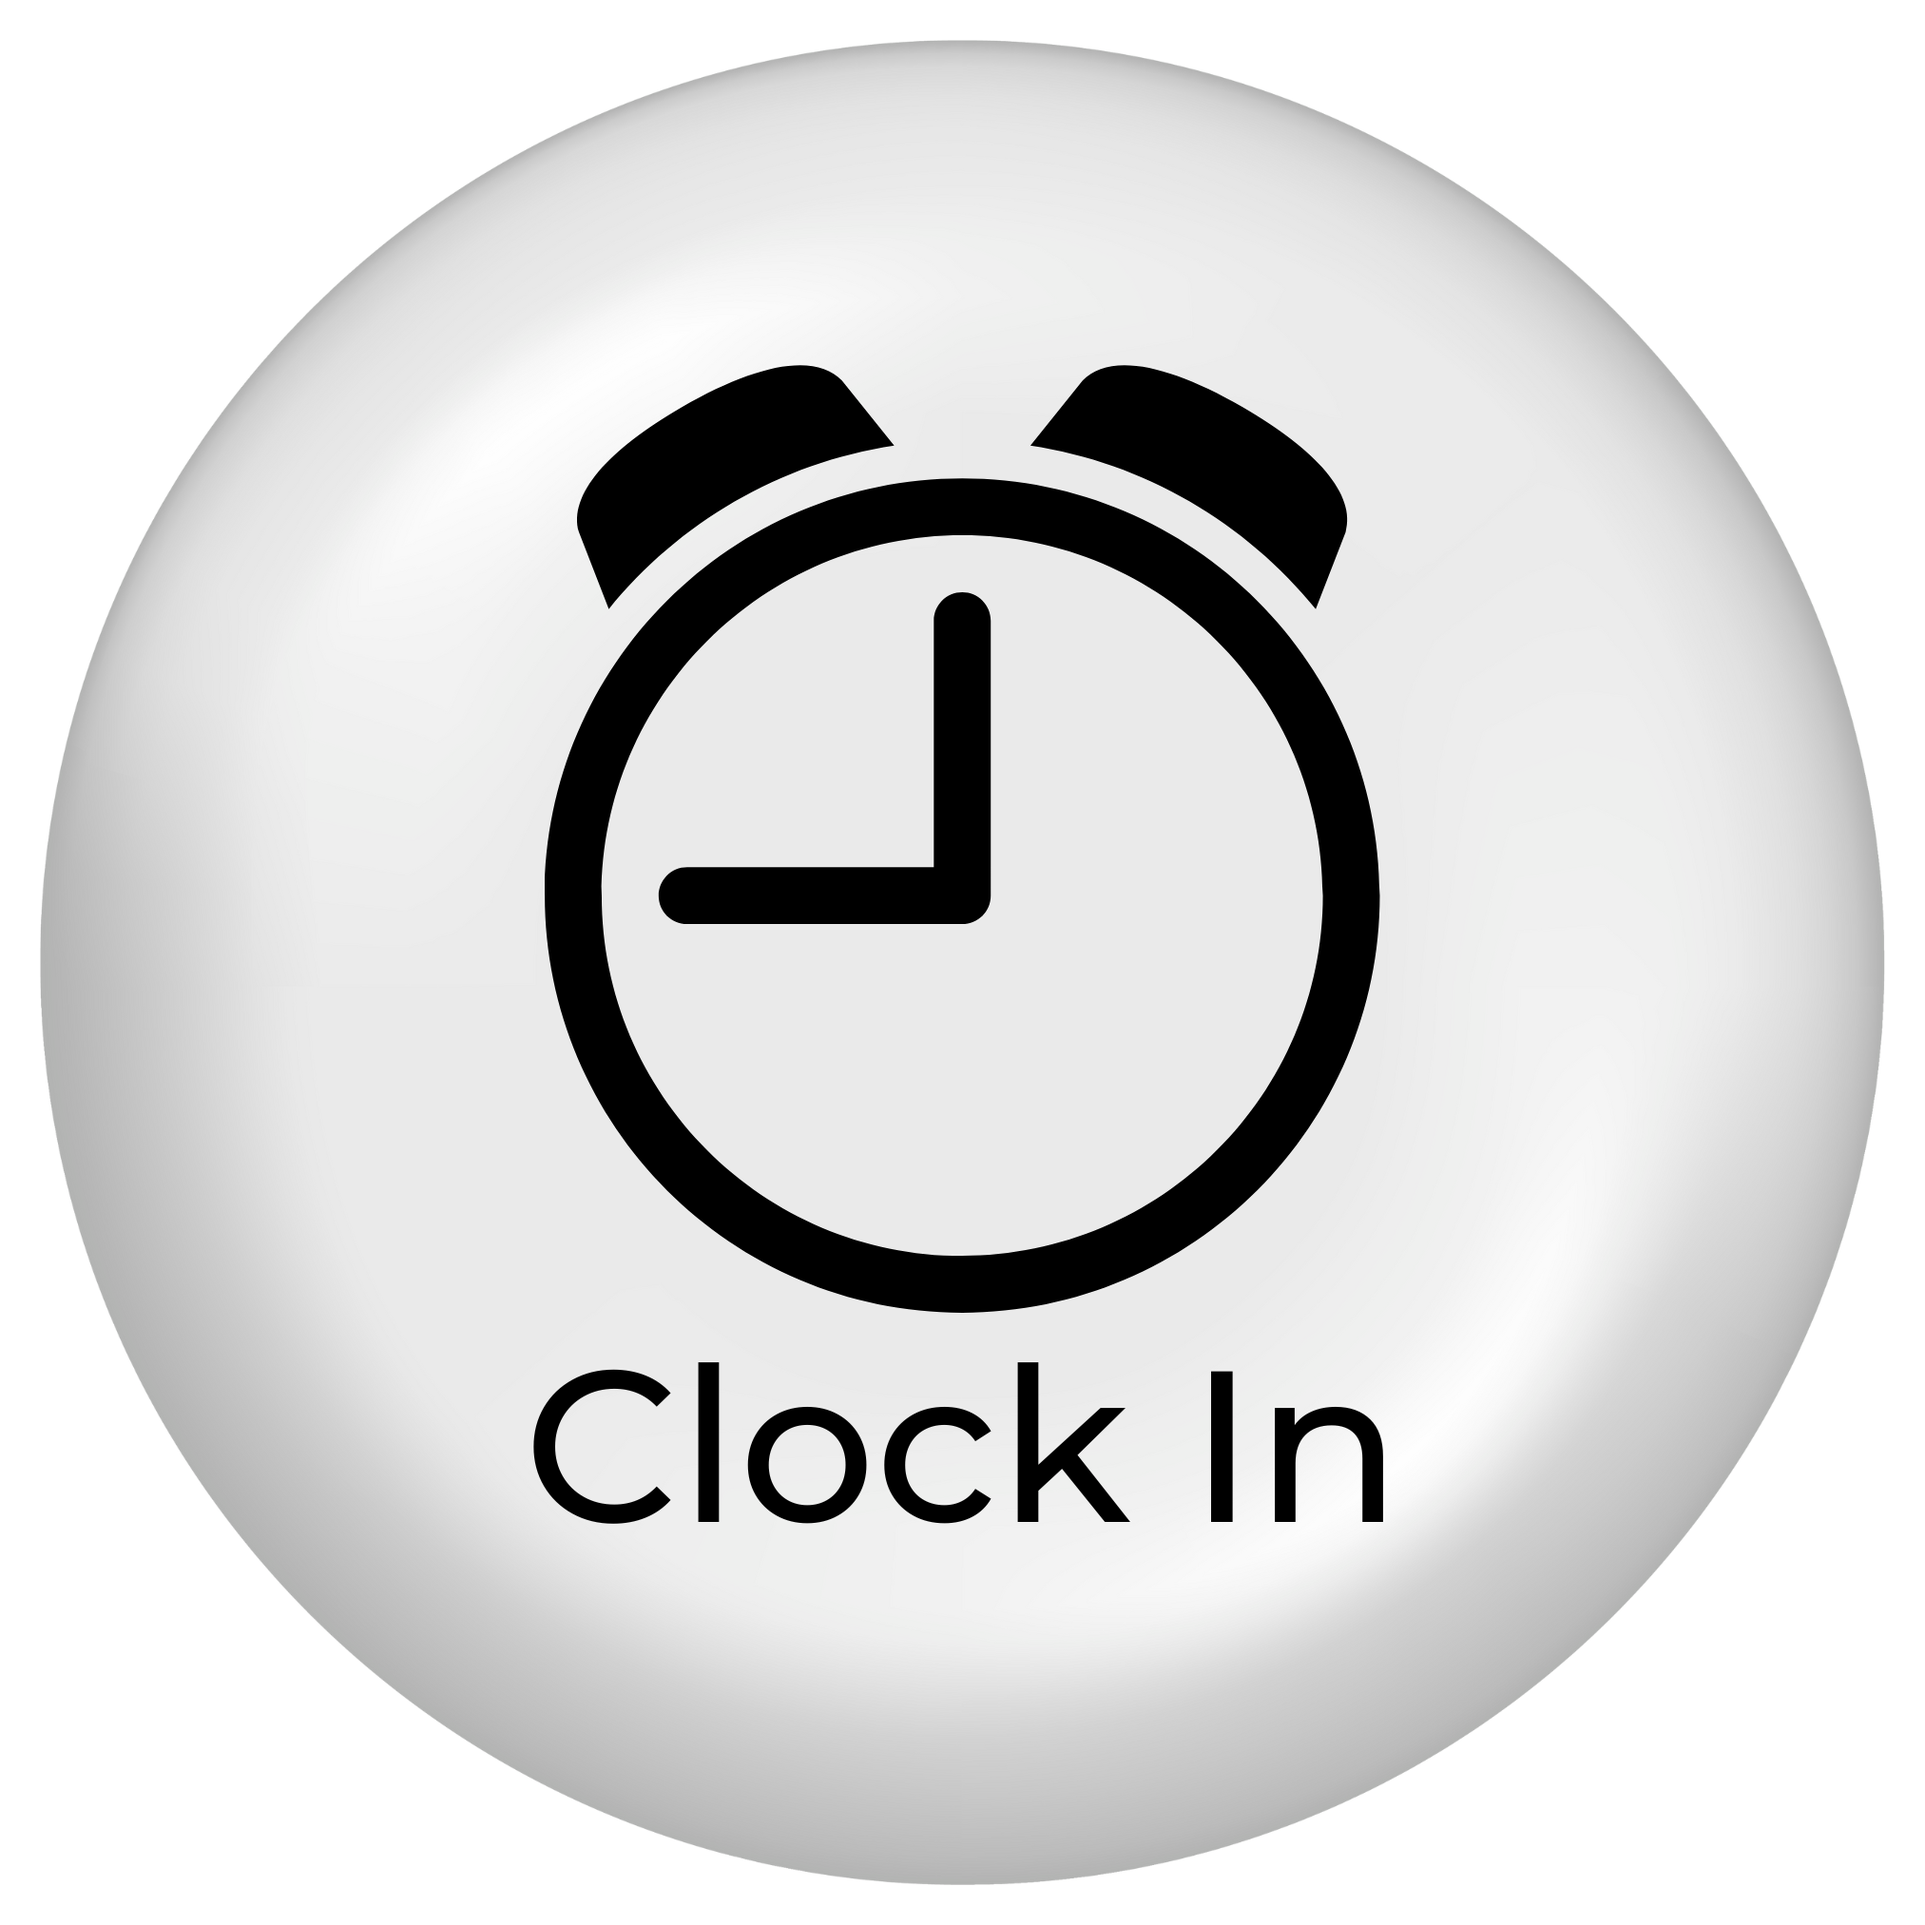
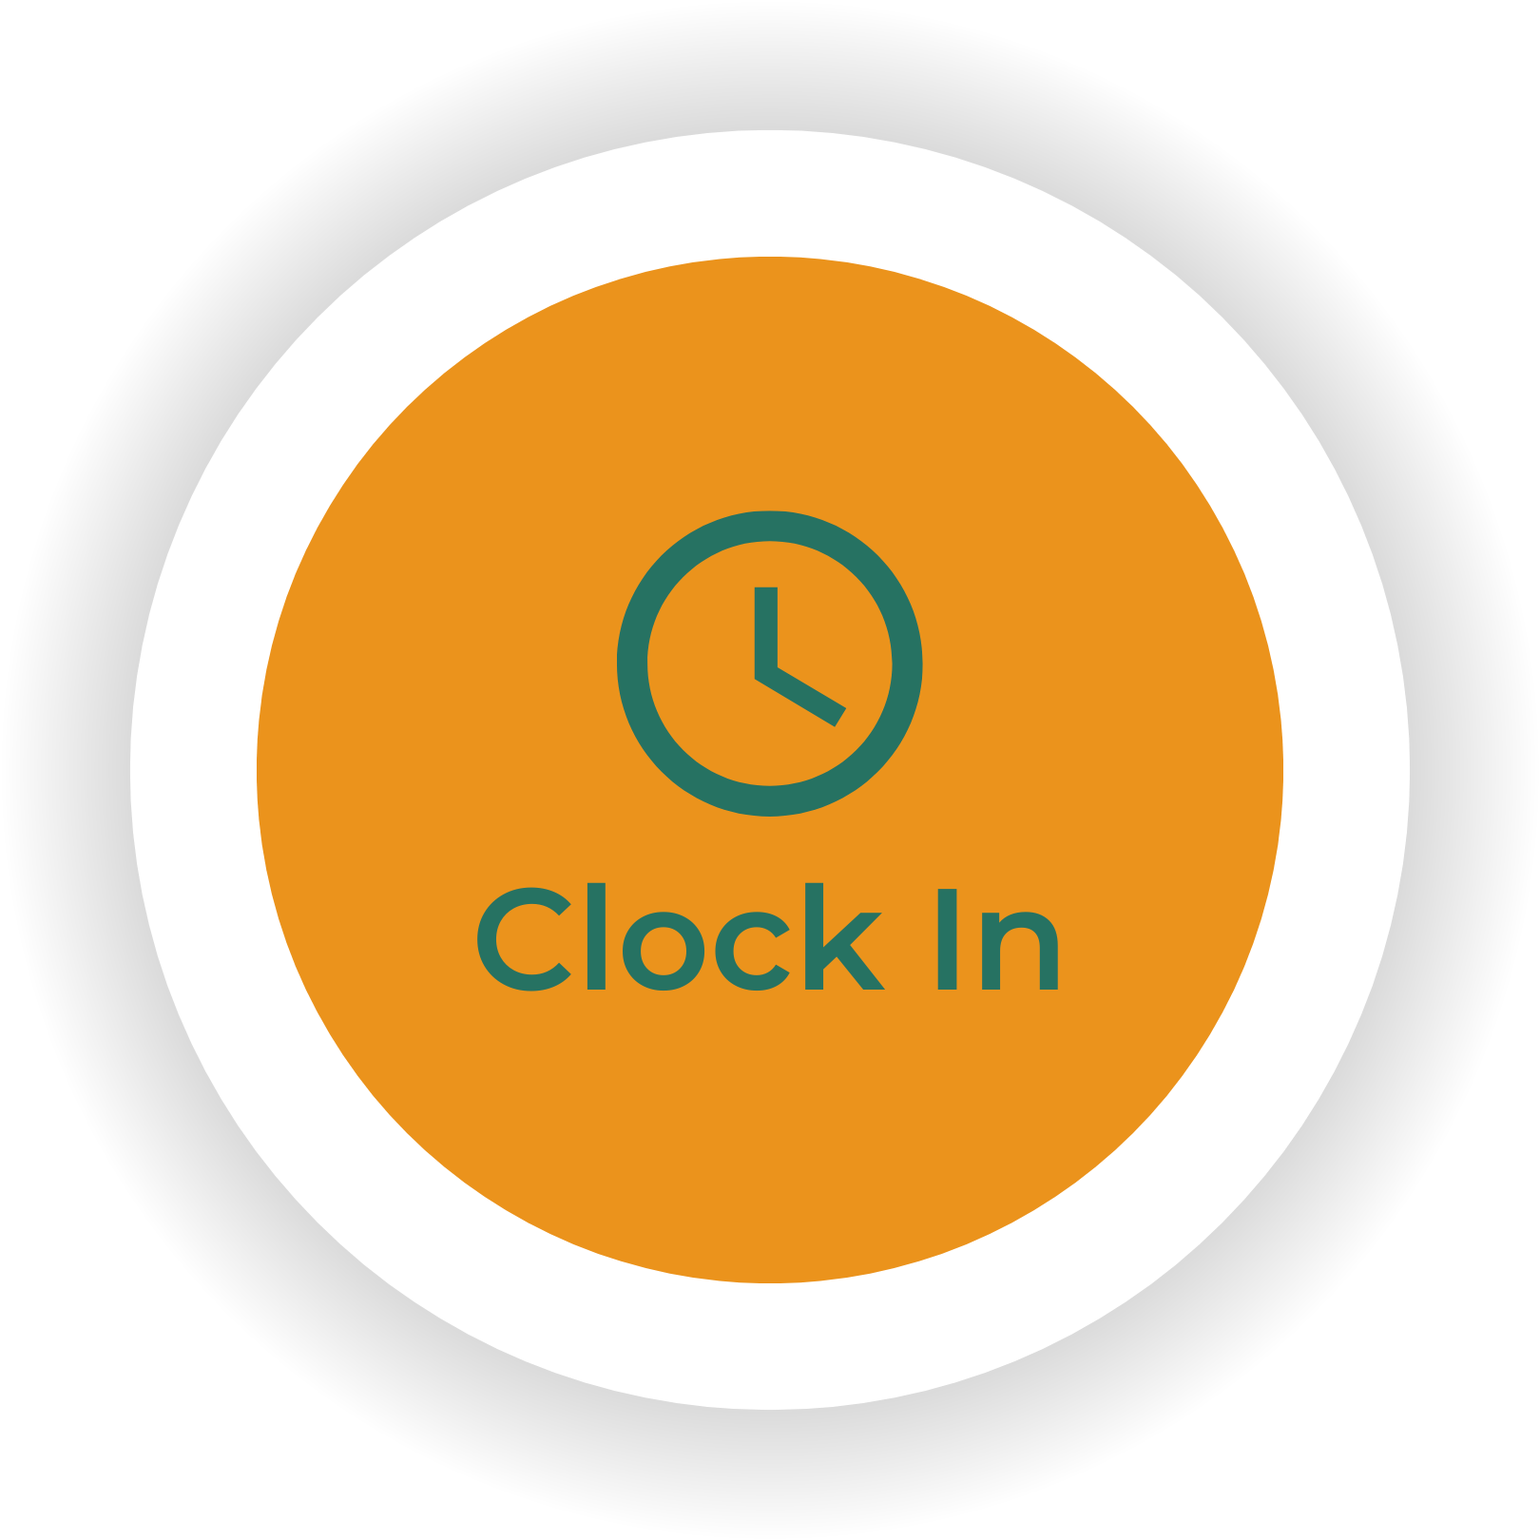
Save

diff --git a/style.css b/style.css
@@ -7,14 +7,14 @@
 }
 
 :root {
-    --orangeColor: #E06111;
     --whiteColor: #FFFFFF;
     --lightOrange: #EB931C;
+    --lightgreen: #1c6455;
     --darkmixOrange: #B86133;
     --darkPurple: #2B2A53;
     --lightGray: #B0A59D;
     --borwn: #332E29;
-    --darkBrown: #E5D2A3;
+    --darkBrown: #ECE9E1;
 }
 
 /* main page style */
@@ -32,7 +32,7 @@
 .nav-header {
     position: relative;
     margin: 10px 10px;
-    color: var(--darkmixOrange);
+    color: var(--lightgreen);
 }
 
 .nav-header .nav-logo-section h1 {
@@ -59,21 +59,22 @@
 .clockInOut-component {
     display: block;
     position: relative;
+    top: 30px;
+    margin-bottom: 40px;
+    background-color: var(--lightgreen);
+    border-radius: 20px;
 }
 
 .user-details {
     position: relative;
-    background-color: var(--lightOrange);
     top: -30px;
-    z-index: 0;
+    z-index: 2;
     display: flex;
     align-items: center;
     flex-direction: column;
     justify-content: space-between;
     height: auto;
     width: 100%;
-    border-radius: 20px;
-    padding-top: 30px;
 }
 
 .user-details .user-name,
@@ -109,7 +110,7 @@
 }
 
 .date-time h1 {
-    color: var(--darkmixOrange);
+    color: var(--lightgreen);
     font-size: 20px;
     letter-spacing: 1px;
     font-weight: 900;
@@ -117,8 +118,8 @@
 }
 
 .date-time p {
-    color: var(--darkmixOrange);
-    font-size: 14px;
+    color: var(--lightgreen);
+    font-size: 13px;
     letter-spacing: 1px;
     font-weight: 500;
     margin: 0px;
@@ -128,7 +129,7 @@
     display: flex;
     align-items: center;
     justify-content: space-between;
-    margin: 0% 3%;
+    margin: 0% 0%;
 }
 
 .total-hours {
@@ -141,7 +142,7 @@
 
 .total-hours .total-counter h2,
 .total-hours .total-counter p {
-    color: white;
+    color: var(--lightgreen);
     margin: 0px;
 }
 
@@ -166,7 +167,7 @@
 .ball-btn {
     width: auto;
     height: auto;
-    margin: 0px 0px 30px 0px;
+    margin: 0px 0px 0px 0px;
     outline: none;
     background: transparent;
     border: none;
@@ -175,11 +176,32 @@
 .ball-btn-mini {
     width: auto;
     height: auto;
-    margin: 0px 0px 30px 10px;
+    margin: 0px 0px 5px -15px;
     outline: none;
     background: transparent;
     border: none;
 }
+
+/* footer menus */
+
+.menubar-footer {
+    width: 100%;
+    background-color: var(--whiteColor);
+    display: flex;
+    justify-content: space-around;
+    align-items: center;
+    padding: 10px 0px;
+    border-radius: 50px;
+    margin: 10px 0px;
+}
+
+.menubar-footer .active-menu {
+    background-color: var(--lightOrange);
+    padding: 10px 12px;
+    margin: 0px;
+    border-radius: 50%;
+}
+
 
 
 /* feature */
@@ -205,8 +227,8 @@
 }
 
 .box-couting:nth-child(2) {
-    color: var(--whiteColor);
-    background-color: var(--borwn);
+    color: var(--lightOrange);
+    background-color: var(--lightgreen);
 }
 
 .box-couting h2 {
@@ -227,29 +249,45 @@
 
 .image-logout {
     max-width: 30px;
+    transition: transform 0.5s;
 }
+
+.image-logout:hover {
+    transform: rotate(360deg);
+}
+
 
 .user-image {
     display: block;
     position: relative;
-    z-index: 1;
+    top: -40px;
+    border: 6px solid var(--darkBrown);
+    z-index: 2;
     margin-left: auto;
     margin-right: auto;
     width: 100px;
     height: 100px;
     border-radius: 50%;
-    object-fit: fill;
-
 }
 
 .ball-btn img {
-    width: 50vw;
+    width: 60vw;
     max-width: 250px;
+    transition: transform 0.25s;
+}
+
+.ball-btn img:hover {
+    transform: scale(0.96);
 }
 
 .ball-btn-mini img {
-    width: 20vw;
+    width: 30vw;
     max-width: 100px;
+    transition: transform 0.25s;
+}
+
+.ball-btn-mini img:hover {
+    transform: scale(0.96);
 }
 
 .clock-img {
@@ -258,6 +296,30 @@
 }
 
 .img-feature {
-    margin-right: 10px;
+    margin-right: 0px;
+    padding: 4px;
     max-width: 50px;
+}
+
+.menubar-footer .menu-item .menu-img {
+    width: 20px;
+}
+
+.shaped_curv {
+    -webkit-mask-image: url(./assets/shape.png);
+    -webkit-mask-size: 80vw 280px;
+    -webkit-mask-position: center top -20px;
+    -webkit-mask-repeat: repeat-x;
+    background-color: var(--lightOrange);
+    border-radius: 20px 20px 0px 0px;
+    position: relative;
+    z-index: 1;
+    overflow: hidden;
+}
+
+@media(max-width: 767px) {
+    .shaped_curv {
+        -webkit-mask-size: 600px 280px;
+        -webkit-mask-position: center top -20px;
+    }
 }

diff --git a/index.html b/index.html
@@ -28,16 +28,15 @@
         <!-- navbar over -->
         <!-- image -->
 
-        <img src="./assets/user-icon.jpg" alt="" class="user-image">
-
+        
         <!-- user cico component -->
         <div class="clockInOut-component">
+            <img src="./assets/user-icon.jpg" alt="" class="user-image">
             <div class="user-details">
                 <div class="user-name">
                     <h1>Himanshu Chauhan</h1>
-                    <p>Jr, Developer</p>
+                    <p>Jr. Developer</p>
                 </div>
-                <hr class="horizontal-line">
                 <div class="date-time">
                     <h1>Tuesday</h1>
                     <p>31/02/2004</p>
@@ -50,7 +49,7 @@
         </div>
         <div class="login-count">
             <div class="total-hours" style="text-align: center;">
-                <img src="./assets/clock.png" alt="" class="clock-img">
+                <img src="./assets/clock-feature.png" alt="" class="clock-img">
                 <div class="total-counter">
                     <h2>00:00:00</h2>
                     <p>Total Hours</p>
@@ -71,6 +70,17 @@
                         <p>break Hours</p>
                     </div>
                 </div>
+            </div>
+        </div>
+        <div class="menubar-footer">
+            <div class="home-menu menu-item active-menu">
+                <img src="./assets/Home-menu.png" alt="HomeImage" class="menu-img"> 
+            </div>
+            <div class="logs-menu menu-item">
+                <img src="./assets/clock.png" alt="HomeImage" class="menu-img"> 
+            </div>
+            <div class="leave-menu menu-item">
+                <img src="./assets/doc.png" alt="HomeImage" class="menu-img"> 
             </div>
         </div>
     </div>
